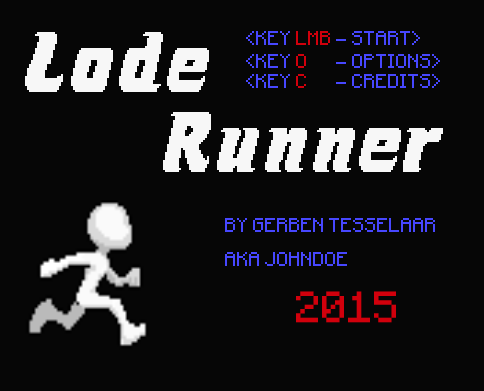
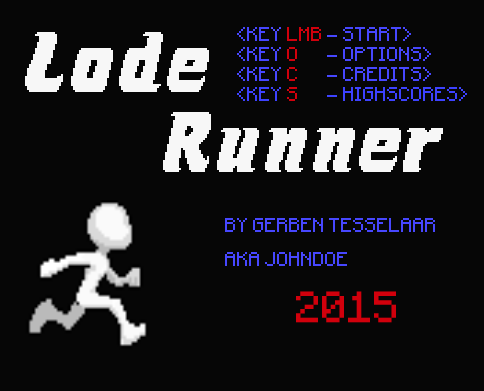
Created Highscore screen and a Font in Play screen

Changed region(s): [[0.4959, 0.0614, 0.9607, 0.2762]]

diff --git a/Lode Runner Personal/eclipse/Lode Runner/src/javagame/Play.java b/Lode Runner Personal/eclipse/Lode Runner/src/javagame/Play.java
@@ -1,10 +1,12 @@
 package javagame;
 
 import org.newdawn.slick.*;
+import org.newdawn.slick.font.effects.ColorEffect;
 import org.newdawn.slick.state.*;
 
 public class Play extends BasicGameState{
 	
+	UnicodeFont uiFont;
 	
 	public Play(int state){
 		
@@ -12,10 +14,22 @@ public class Play extends BasicGameState{
 	
 	public void init(GameContainer gc, StateBasedGame sbg) throws SlickException{
 		gc.setShowFPS(false);
+		
+		uiFont = new UnicodeFont("fonts/MINECRAFTIA-REGULAR.TTF", 22, false, false);
 	}
 	
+	@SuppressWarnings("unchecked")
 	public void render(GameContainer gc, StateBasedGame sbg, Graphics g) throws SlickException{
-		g.drawString("Welcome to the Play state", 100, 100);
+		g.setBackground(Color.black);
+		
+		//Loading things for fonts
+		uiFont.addAsciiGlyphs();
+		//uiFont.addGlyphs(400, 600);
+		uiFont.getEffects().add(new ColorEffect());
+		uiFont.loadGlyphs();
+		
+		//Draw string in specified font
+		uiFont.drawString(200, 200, "Welcome to the Play state", Color.red);
 	}
 	
 	public void update(GameContainer gc, StateBasedGame sbg, int delta) throws SlickException{		

diff --git a/Lode Runner Personal/eclipse/Lode Runner/src/javagame/Score.java b/Lode Runner Personal/eclipse/Lode Runner/src/javagame/Score.java
@@ -1,0 +1,34 @@
+package javagame;
+
+import org.newdawn.slick.*;
+import org.newdawn.slick.state.*;
+
+public class Score extends BasicGameState{
+	
+	Image score;
+	
+	public Score(int state){
+		
+	}
+	
+	public void init(GameContainer gc, StateBasedGame sbg) throws SlickException{
+		gc.setShowFPS(false);
+		
+		score = new Image("res/Highscores.png");
+	}
+	
+	public void render(GameContainer gc, StateBasedGame sbg, Graphics g) throws SlickException{
+		score.draw(0, 0, gc.getWidth(), gc.getHeight(), Color.white);
+	}
+	
+	public void update(GameContainer gc, StateBasedGame sbg, int delta) throws SlickException{		
+		//Keyboard/Mouse input
+		Input input = gc.getInput();
+				
+		if (input.isKeyPressed(Input.KEY_BACK)){ sbg.enterState(0); } //change state to credits
+	}
+	
+	public int getID(){
+		return 4;
+	}
+}

diff --git a/Lode Runner Personal/eclipse/Lode Runner/src/javagame/Game.java b/Lode Runner Personal/eclipse/Lode Runner/src/javagame/Game.java
@@ -10,6 +10,7 @@ public class Game extends StateBasedGame{
 	public static final int play = 1;
 	public static final int options = 2;
 	public static final int credits = 3;
+	public static final int score = 4;
 
 	public Game(String gamename){
 		super(gamename);
@@ -17,6 +18,7 @@ public class Game extends StateBasedGame{
 		this.addState(new Play(play));
 		this.addState(new Options(options));
 		this.addState(new Credits(credits));
+		this.addState(new Score(score));
 	}
 	
 	public void initStatesList(GameContainer gc) throws SlickException{
@@ -24,6 +26,7 @@ public class Game extends StateBasedGame{
 		this.getState(play).init(gc, this);
 		this.getState(options).init(gc, this);
 		this.getState(credits).init(gc, this);
+		this.getState(score).init(gc, this);
 		this.enterState(menu);
 	}
 	

diff --git a/Lode Runner Personal/eclipse/Lode Runner/src/javagame/Menu.java b/Lode Runner Personal/eclipse/Lode Runner/src/javagame/Menu.java
@@ -44,6 +44,7 @@ public class Menu extends BasicGameState{
 		}
 		if (input.isKeyPressed(Input.KEY_O)){ sbg.enterState(2); } //change state to options
 		if (input.isKeyPressed(Input.KEY_C)){ sbg.enterState(3); } //change state to credits
+		if (input.isKeyPressed(Input.KEY_S)){ sbg.enterState(4); } //change state to score DEBUG
 	}
 	
 	public int getID(){
